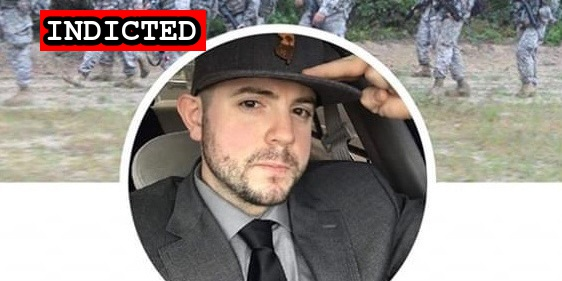
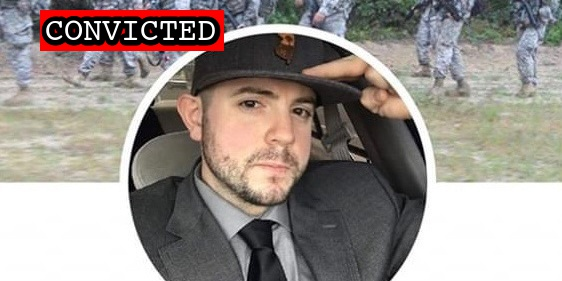
THC verdict

Changed region(s): [[0.0605, 0.0285, 0.4235, 0.1993]]

diff --git a/docs/_suspects/timothy-hale-cusanelli.md b/docs/_suspects/timothy-hale-cusanelli.md
@@ -4,16 +4,16 @@ lastName: Hale-Cusanelli
 hashtag: TimHaleCusanelli
 aka: Based Hermes
 residence: New Jersey
-status: Indicted
+status: Convicted
 date: 2021-01-17
 charged: 2021-01-17
 indicted: 2021-01-29
-convicted:
+convicted: 2022-05-27
 acquitted:
 sentenced:
 dismissed:
 deceased:
-plea_hearing:
+plea_hearing: 2022-05-27
 trial_date: 2022-05-23
 sentencing:
 age: 30
@@ -36,6 +36,26 @@ published: true
 caseNumber: 1:21-cr-37
 videos:
 charges:
+  - code: 18 USC § 1512(c)(2),2
+    title: Obstruction of an Official Proceeding (Aiding and Abetting)
+    url: https://www.law.cornell.edu/uscode/text/18/1512
+    felony: true
+  - code: 18 USC § 1752(a)(1)
+    title: Entering a restricted building or grounds
+    url: https://www.law.cornell.edu/uscode/text/18/1752
+    felony: false
+  - code: 18 USC § 1752(a)(2)
+    title: Disorderly and Disruptive Conduct in a Restricted Building or Grounds
+    url: https://www.law.cornell.edu/uscode/text/18/1752
+    felony:
+  - code: 40 USC § 5104(e)(2)(D)
+    title: Disorderly Conduct in a Capitol Building
+    url: https://www.law.cornell.edu/uscode/text/40/5104
+    felony: false
+  - code: 40 USC § 5104(e)(2)(G)
+    title: Parading, demonstrating or picketing in a Capitol building
+    url: https://www.law.cornell.edu/uscode/text/40/5104
+    felony: false
 sentence:
 ---
 

diff --git a/docs/_suspects/thomas-robertson.md b/docs/_suspects/thomas-robertson.md
@@ -37,7 +37,7 @@ caseNumber: 1:21-cr-34
 videos:
 charges:
   - code: 18 USC § 1512(c)(2),2
-    title: Obstruction of an Official Proceeding and Aiding and Abetting
+    title: Obstruction of an Official Proceeding (Aiding and Abetting)
     url: https://www.law.cornell.edu/uscode/text/18/1512
     felony: true
   - code: 18 USC § 231(a)(3),2
